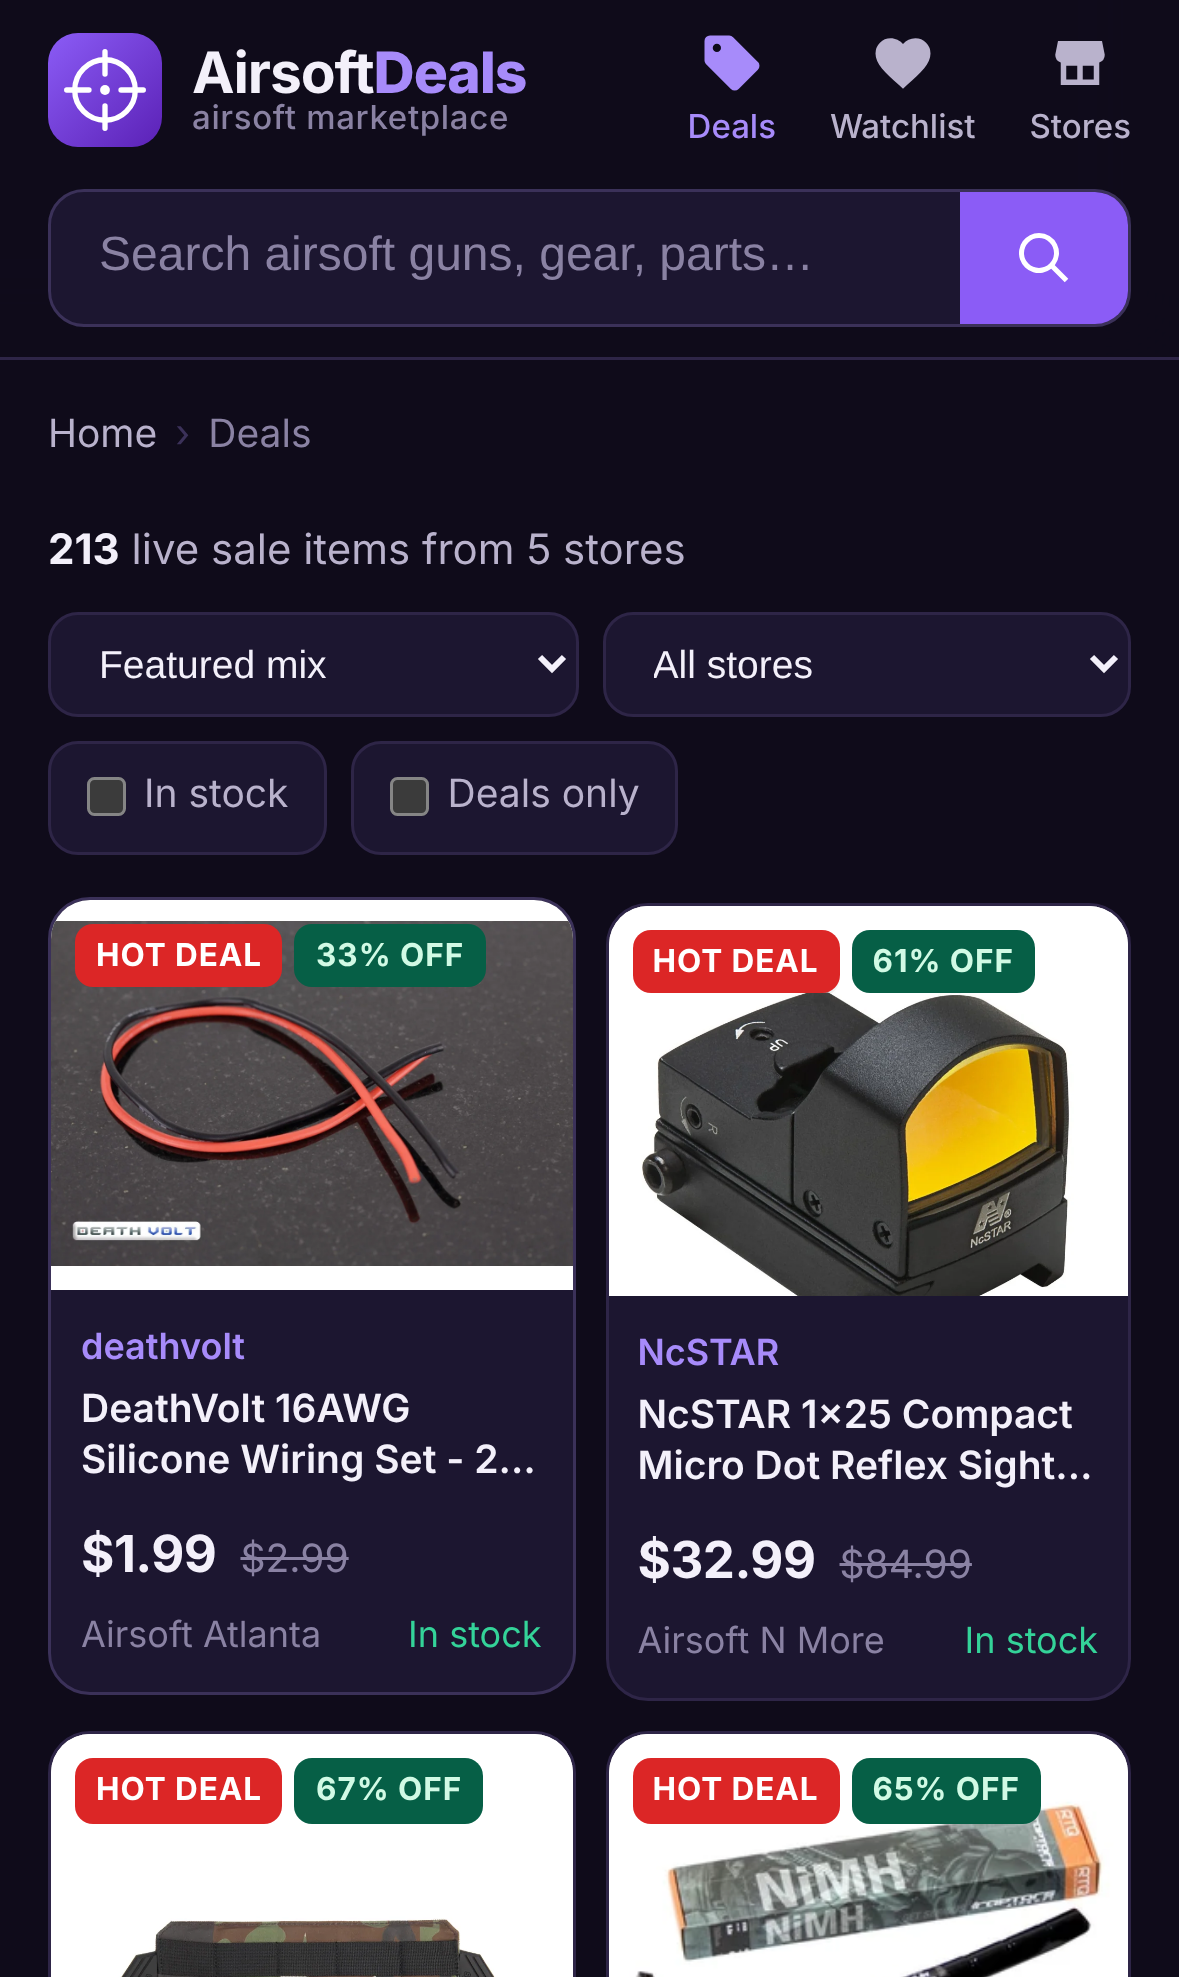
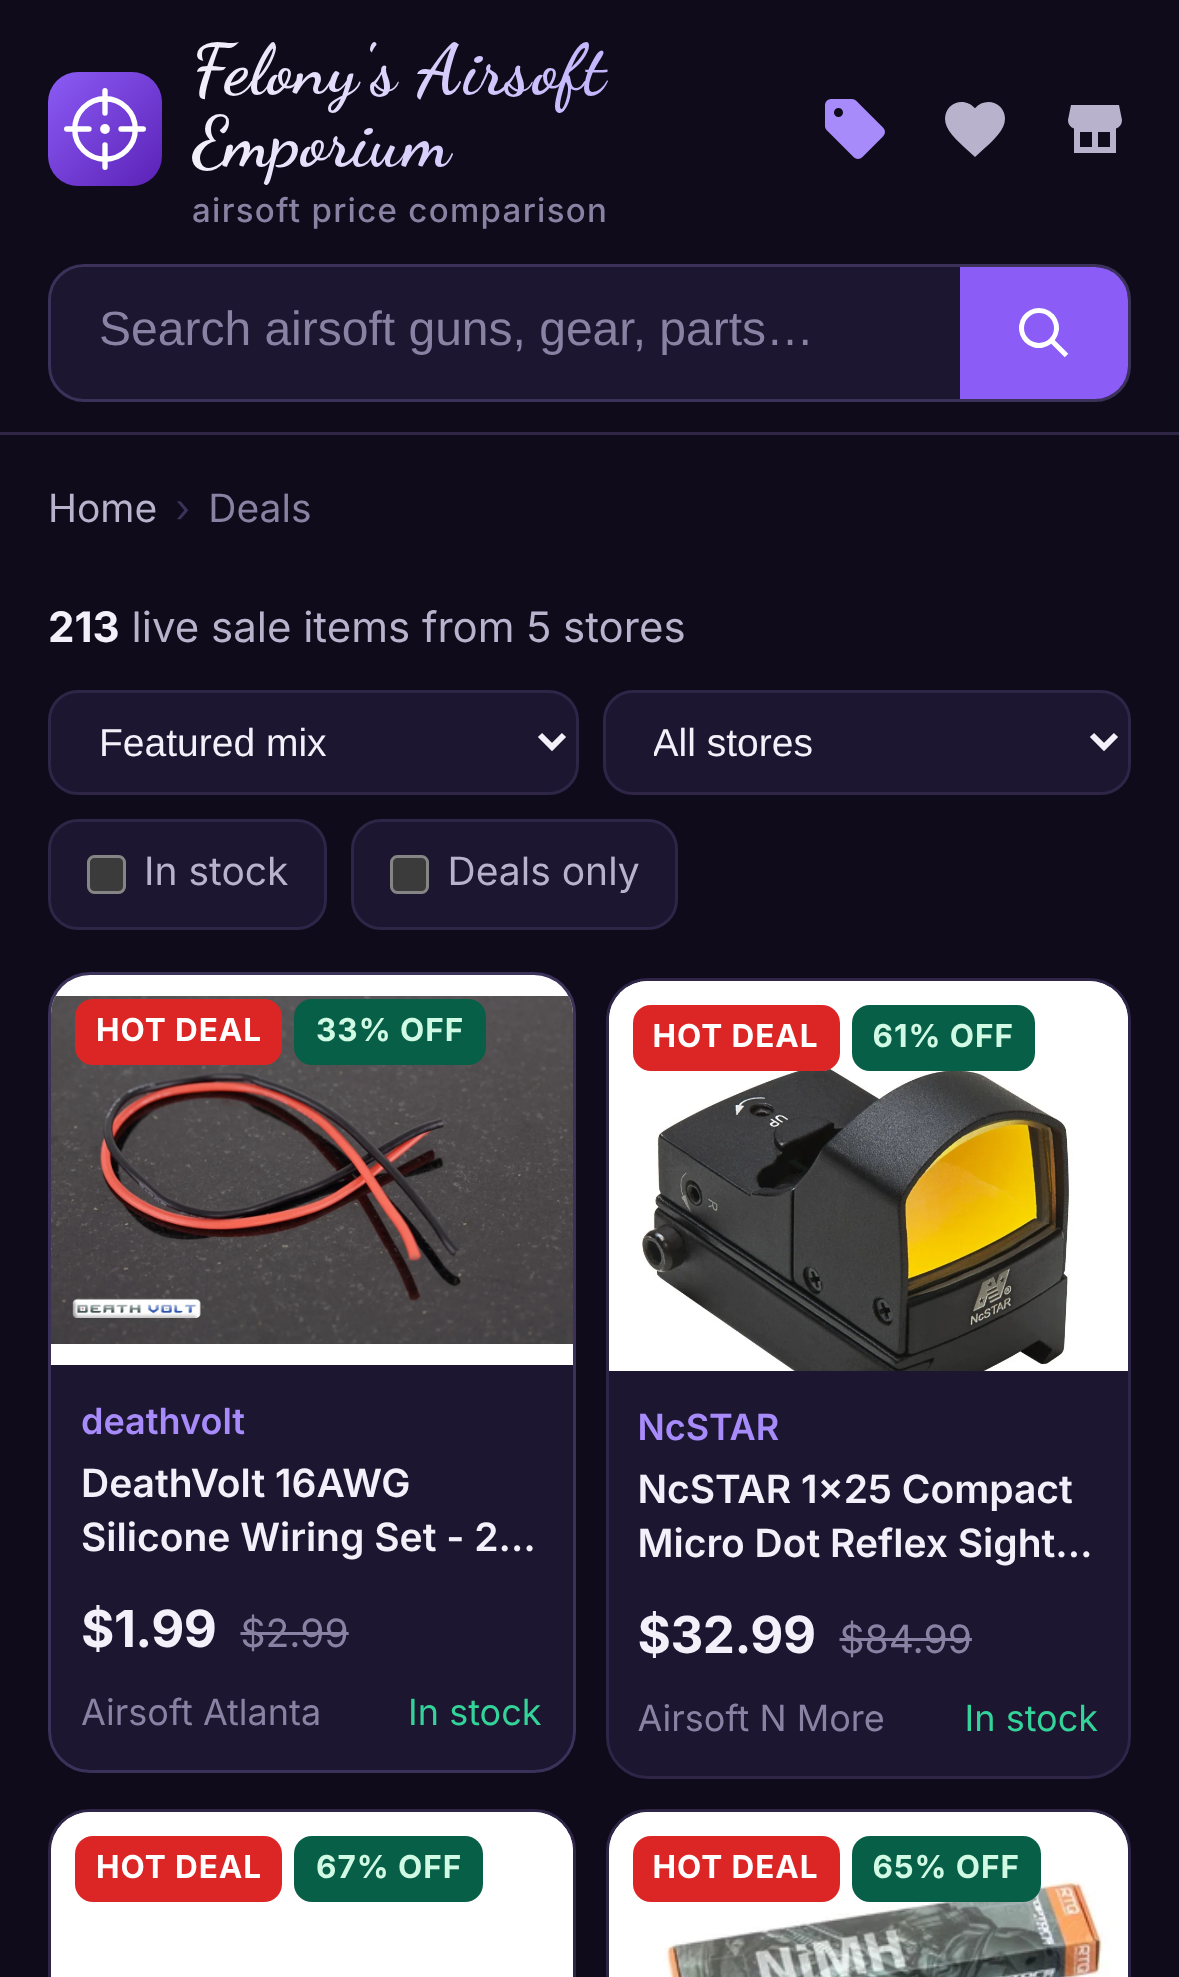
Rename to Felony's Airsoft Emporium with self-hosted Dancing Script wordmark

diff --git a/public/styles.css b/public/styles.css
@@ -1,3 +1,4 @@
+@font-face{font-family:"Dancing Script";src:url("/fonts/DancingScript-latin.woff2") format("woff2");font-weight:400 700;font-style:normal;font-display:swap}
 :root{
   --bg:#0f0b1a;--bg2:#141022;--card:#1c1630;--card2:#221b3a;--line:#2e2547;--line2:#3b3159;
   --text:#f3f0fa;--sub:#b9b2cc;--muted:#8a82a3;
@@ -16,9 +17,9 @@ svg{fill:currentColor}
 .header-inner{max-width:1200px;margin:0 auto;display:flex;align-items:center;gap:28px;padding:14px 24px}
 .brand{display:flex;align-items:center;gap:10px;color:var(--text);flex:none}
 .logo{width:38px;height:38px;border-radius:10px}
-.wordmark{font-size:21px;font-weight:700;letter-spacing:-.02em;line-height:1.05;display:flex;flex-direction:column}
-.wordmark b{color:var(--accent2);font-weight:800;display:inline}
-.wordmark small{font-size:11px;font-weight:500;color:var(--muted);letter-spacing:.02em}
+.wordmark{display:flex;flex-direction:column;line-height:1;min-width:0}
+.wordmark .script{font-family:"Dancing Script","Snell Roundhand","Apple Chancery",cursive;font-weight:700;font-size:28px;letter-spacing:.005em;white-space:nowrap;background:linear-gradient(90deg,#f3f0fa 0%,#c4b5fd 70%,#a78bfa 100%);-webkit-background-clip:text;background-clip:text;color:transparent;padding:2px 2px 4px 0}
+.wordmark small{font-size:11px;font-weight:500;color:var(--muted);letter-spacing:.04em;margin-top:1px}
 .search{flex:1;display:flex;max-width:640px;background:var(--card);border:1px solid var(--line2);border-radius:12px;overflow:hidden;transition:border-color .15s,box-shadow .15s}
 .search:focus-within{border-color:var(--accent);box-shadow:0 0 0 3px var(--accent-soft)}
 .search input{flex:1;min-width:0;background:none;border:0;color:var(--text);font-size:16px;padding:13px 16px;outline:none}
@@ -127,6 +128,7 @@ select,.toggle{background:var(--card);color:var(--text);border:1px solid var(--l
 .foot{text-align:center;color:var(--muted);font-size:12px;padding:26px 24px calc(26px + env(safe-area-inset-bottom));border-top:1px solid var(--line)}
 
 @media (max-width:900px){.product{grid-template-columns:1fr;gap:20px}.gallery{position:static;order:-1}.main-img{aspect-ratio:4/3}}
+@media (max-width:1000px){.header-inner{gap:18px}.wordmark .script{font-size:24px}}
 @media (max-width:720px){
   .header-inner{flex-wrap:wrap;gap:12px;padding:10px 16px}
   .search{order:3;flex-basis:100%;max-width:none}
@@ -138,6 +140,8 @@ select,.toggle{background:var(--card);color:var(--text);border:1px solid var(--l
   .p-title{font-size:23px}.best-price{font-size:36px}
   .wm{width:96px;font-size:14px}.o-mid{display:none}.offer{padding:12px}
   .status .pill:not(.err){display:none}.status{margin:0}
-  .wordmark{font-size:19px}
+  .brand{flex:1;min-width:0}.wordmark .script{font-size:clamp(20px,6vw,26px);white-space:normal;text-wrap:balance;line-height:1.02}
   .toolbar{align-items:stretch}.controls{width:100%}.controls select{flex:1}
 }
+@media (max-width:430px){.action span{display:none}.action svg{width:24px;height:24px}.actions{gap:16px}}
+@media (max-width:360px){.logo{width:32px;height:32px}.actions{gap:12px}.wordmark small{font-size:10px;letter-spacing:.01em;white-space:nowrap}}

diff --git a/public/index.html b/public/index.html
@@ -3,8 +3,8 @@
 <head>
   <meta charset="utf-8" />
   <meta name="viewport" content="width=device-width, initial-scale=1, viewport-fit=cover" />
-  <title>AirsoftDeals — Airsoft price comparison</title>
-  <meta name="description" content="AirsoftDeals compares live airsoft prices across trusted US retailers and flags the best deals." />
+  <title>Felony&#39;s Airsoft Emporium — Airsoft price comparison</title>
+  <meta name="description" content="Felony&#39;s Airsoft Emporium compares live airsoft prices across trusted US retailers and flags the best deals." />
   <meta name="theme-color" content="#0f0b1a" />
   <meta name="color-scheme" content="dark" />
   <link rel="manifest" href="/manifest.webmanifest" />
@@ -12,16 +12,17 @@
   <meta name="apple-mobile-web-app-capable" content="yes" />
   <meta name="mobile-web-app-capable" content="yes" />
   <meta name="apple-mobile-web-app-status-bar-style" content="black-translucent" />
-  <meta name="apple-mobile-web-app-title" content="AirsoftDeals" />
+  <meta name="apple-mobile-web-app-title" content="Felony&#39;s" />
   <link rel="apple-touch-icon" href="/icons/apple-touch-icon.png" />
+  <link rel="preload" href="/fonts/DancingScript-latin.woff2" as="font" type="font/woff2" crossorigin />
   <link rel="stylesheet" href="/styles.css" />
 </head>
 <body>
   <header class="header">
     <div class="header-inner">
-      <a href="#/" class="brand" aria-label="AirsoftDeals home">
+      <a href="#/" class="brand" aria-label="Felony&#39;s Airsoft Emporium home">
         <img src="/icons/icon.svg" alt="" class="logo" />
-        <span class="wordmark"><span>Airsoft<b>Deals</b></span><small>airsoft marketplace</small></span>
+        <span class="wordmark"><span class="script">Felony&#39;s Airsoft Emporium</span><small>airsoft price comparison</small></span>
       </a>
       <form id="searchForm" class="search" autocomplete="off" role="search">
         <input id="q" type="search" placeholder="Search airsoft guns, gear, parts…" enterkeyhint="search" aria-label="Search" />
@@ -37,7 +38,7 @@
     </div>
   </header>
   <main id="app"></main>
-  <footer class="foot">Prices are pulled live from each retailer and can change at any time. Confirm on the store page before buying. AirsoftDeals is not affiliated with any retailer.</footer>
+  <footer class="foot">Prices are pulled live from each retailer and can change at any time. Confirm on the store page before buying. Felony&#39;s Airsoft Emporium is not affiliated with any retailer.</footer>
   <script src="/config.js"></script>
   <script src="/app.js"></script>
 </body>

diff --git a/public/app.js b/public/app.js
@@ -1,4 +1,4 @@
-/* AirsoftDeals front-end: hash router, search, product comparison, deals, watchlist. */
+/* Felony's Airsoft Emporium front-end: hash router, search, product comparison, deals, watchlist. */
 const API = (window.API_BASE || '').replace(/\/$/, '');
 const app = document.getElementById('app');
 const $ = (s, r = document) => r.querySelector(s);
@@ -173,7 +173,7 @@ async function homePage() {
   $('#q').value = '';
   const chips = ['Tokyo Marui', 'Gas blowback', 'M4 AEG', 'Glock', 'Hi-Capa', 'Sniper rifle', 'Plate carrier', 'HPA', '0.28g BBs'];
   app.innerHTML = `<section class="hero"><h1>Find the <em>best price</em> on airsoft gear.</h1>
-    <p>AirsoftDeals checks trusted US retailers live, matches the same product across stores, and flags real sales so you never overpay.</p>
+    <p>Felony&#39;s Airsoft Emporium checks trusted US retailers live, matches the same product across stores, and flags real sales so you never overpay.</p>
     <div class="chips">${chips.map((c) => `<button class="chip" data-q="${esc(c)}">${esc(c)}</button>`).join('')}</div></section>
     <div class="section-h"><h2>Top deals right now</h2><a href="#/deals">See all deals →</a></div><div id="homeDeals">${skeletons(8)}</div>`;
   app.querySelectorAll('.chip').forEach((c) => c.addEventListener('click', () => (location.hash = '#/search?q=' + encodeURIComponent(c.dataset.q))));

diff --git a/public/sw.js b/public/sw.js
@@ -1,6 +1,6 @@
 // App-shell cache; API calls always go to the network so prices are never stale.
-const CACHE = 'airsoft-deals-v3';
-const SHELL = ['/', '/index.html', '/styles.css', '/app.js', '/config.js', '/manifest.webmanifest', '/icons/icon.svg', '/icons/icon-192.png'];
+const CACHE = 'airsoft-deals-v4';
+const SHELL = ['/', '/index.html', '/styles.css', '/app.js', '/config.js', '/manifest.webmanifest', '/icons/icon.svg', '/icons/icon-192.png', '/fonts/DancingScript-latin.woff2'];
 self.addEventListener('install', (e) => { e.waitUntil(caches.open(CACHE).then((c) => c.addAll(SHELL))); self.skipWaiting(); });
 self.addEventListener('activate', (e) => { e.waitUntil(caches.keys().then((ks) => Promise.all(ks.filter((k) => k !== CACHE).map((k) => caches.delete(k))))); self.clients.claim(); });
 self.addEventListener('fetch', (e) => {

diff --git a/server/index.js b/server/index.js
@@ -54,4 +54,4 @@ app.get('/api/deals', async (req, res) => {
 app.use(express.static(path.join(__dirname, '..', 'public'), { extensions: ['html'] }));
 
 const port = process.env.PORT || 8787;
-app.listen(port, () => console.log(`Airsoft Deals running on http://localhost:${port}`));
+app.listen(port, () => console.log(`Felony's Airsoft Emporium running on http://localhost:${port}`));

diff --git a/README.md b/README.md
@@ -1,6 +1,6 @@
-# AirsoftDeals
+# Felony's Airsoft Emporium
 
-Live airsoft price comparison across trusted US retailers. Search once, and AirsoftDeals checks every supported store in parallel, matches the same product across stores, and flags real deals. Ships as an installable iPhone web app (PWA) and as a native iOS shell (Capacitor).
+Live airsoft price comparison across trusted US retailers. Search once, and Felony's Airsoft Emporium checks every supported store in parallel, matches the same product across stores, and flags real deals. Ships as an installable iPhone web app (PWA) and as a native iOS shell (Capacitor).
 
 ## Stores
 
@@ -70,3 +70,6 @@ ios/               Capacitor iOS Xcode project
 scripts/           make-icons.js, screenshots.js, build-www.js
 screenshots/       desktop-* and iphone-* UI captures
 ```
+
+## Branding
+The header wordmark uses **Dancing Script** (SIL Open Font License 1.1). It's self-hosted at `public/fonts/` so it also works offline in the installed app. The license is in `public/fonts/OFL.txt`.
